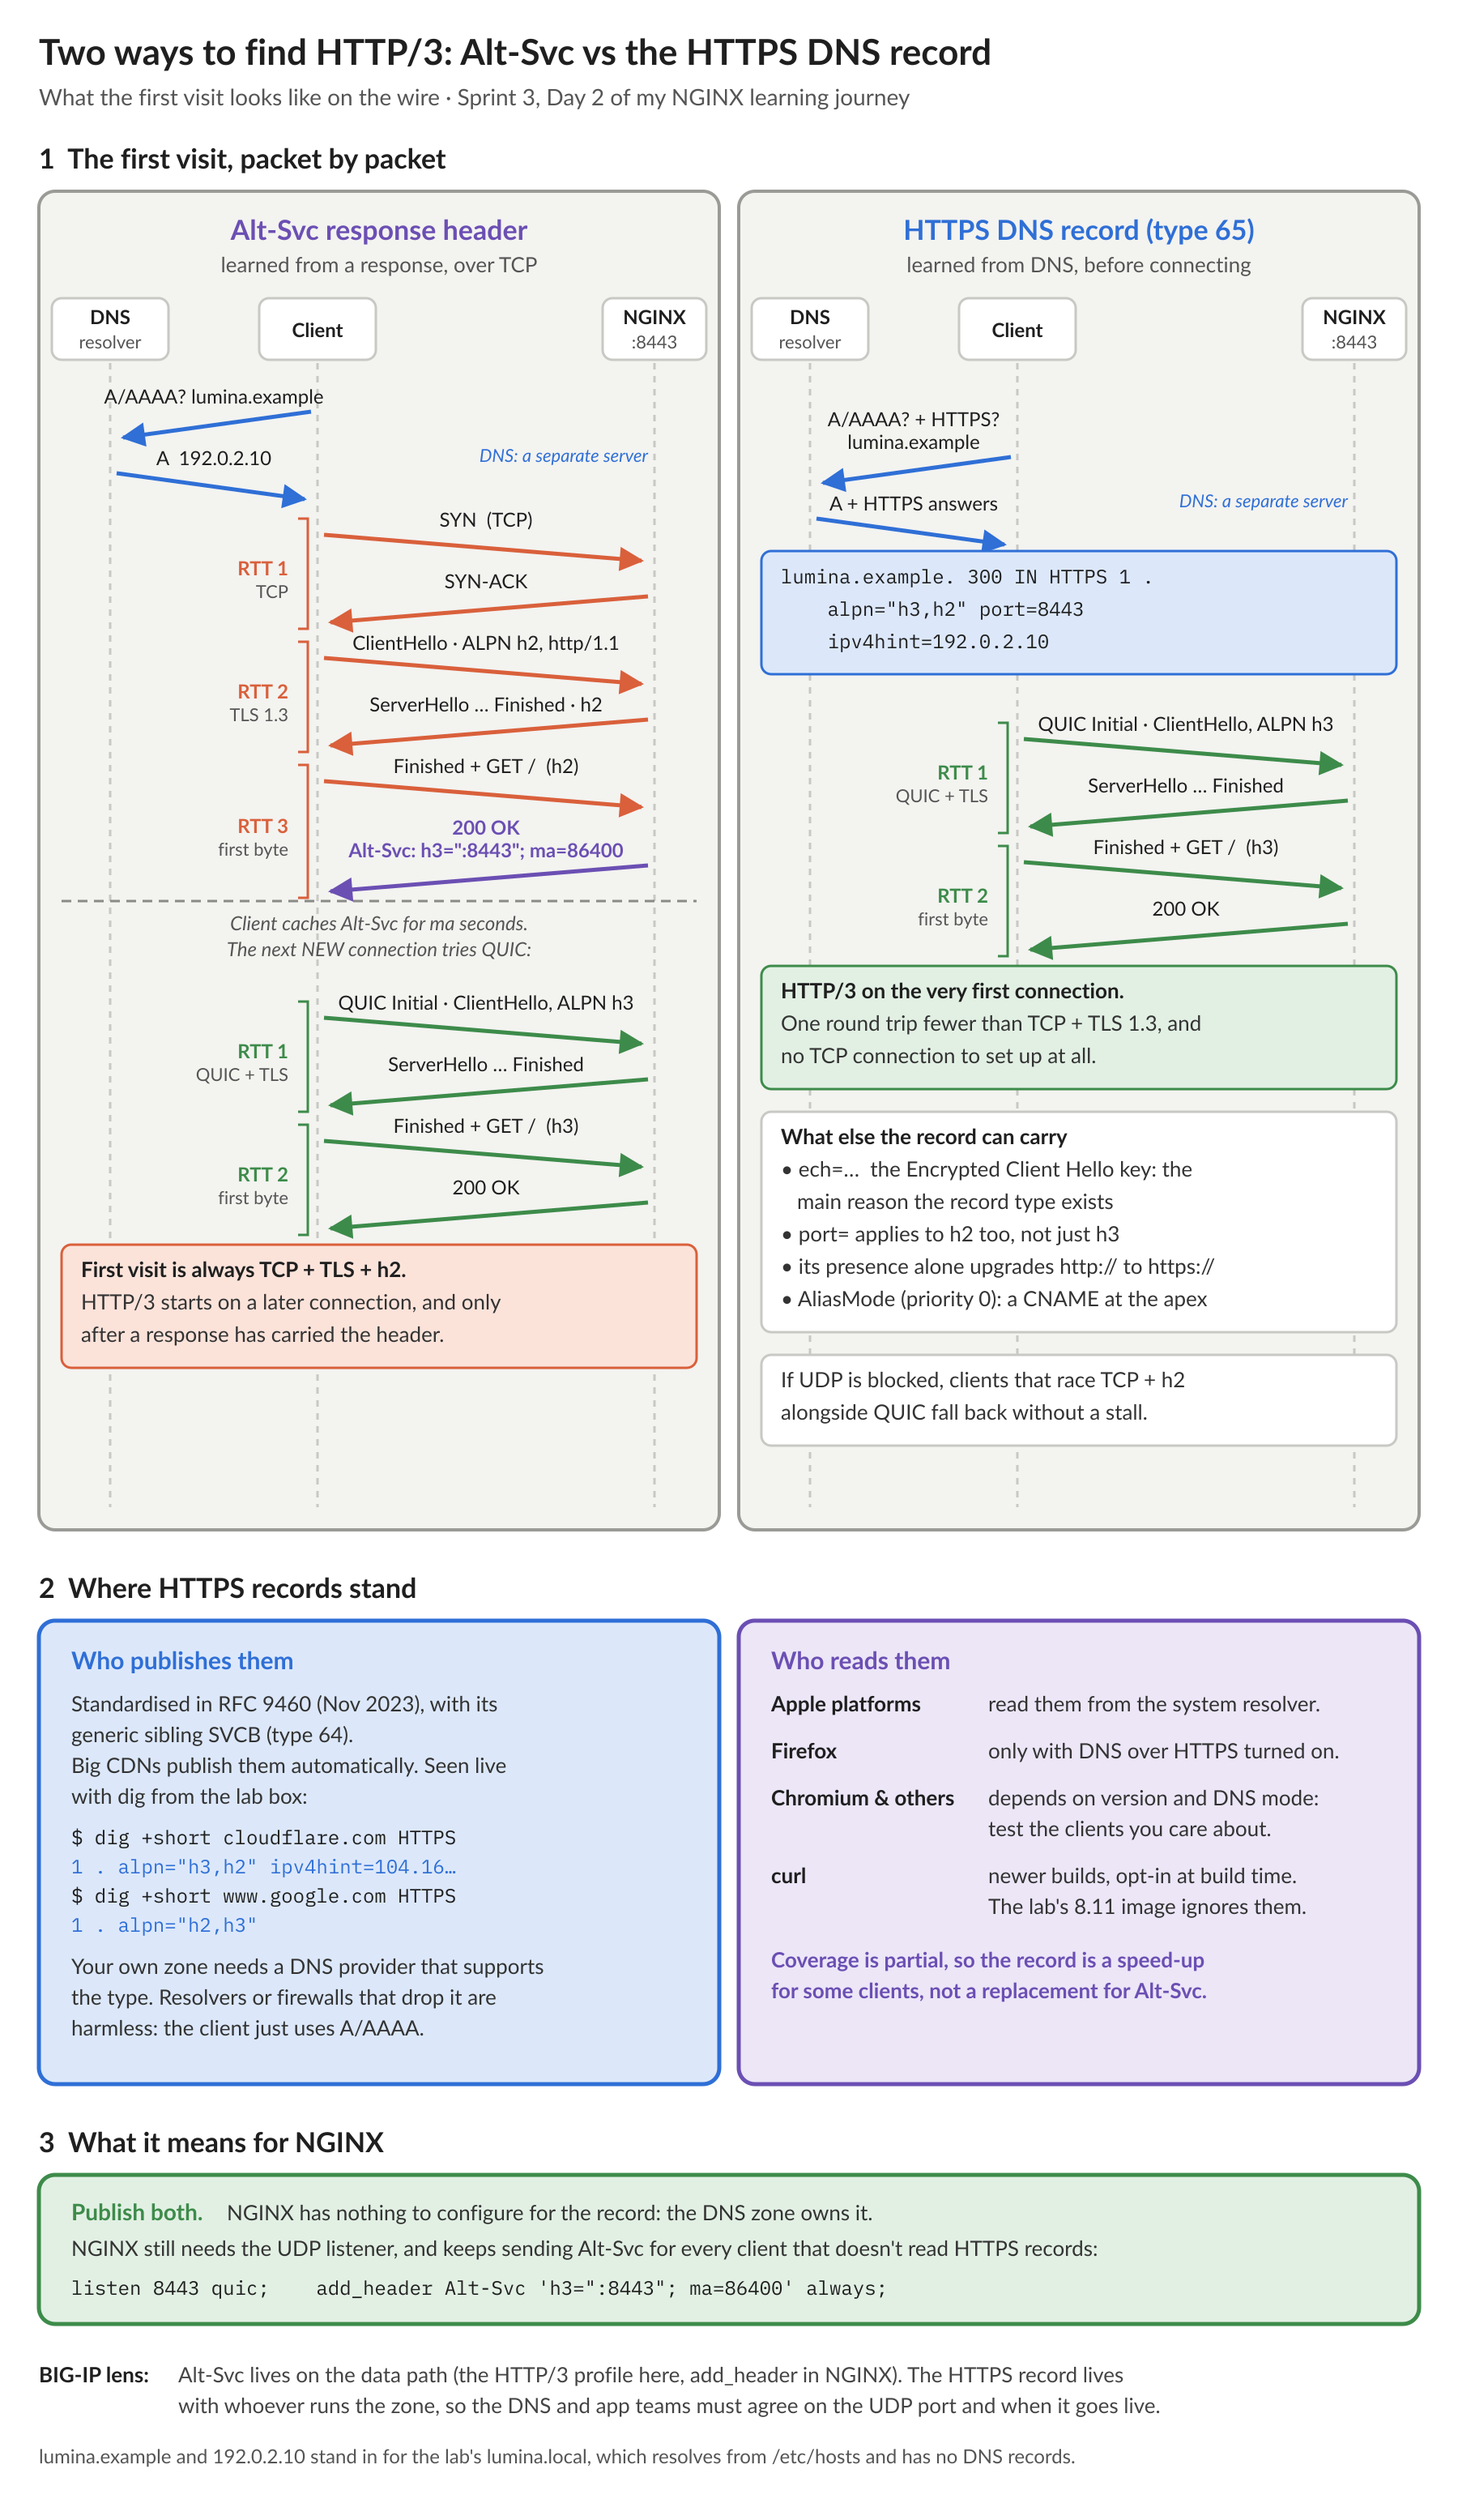
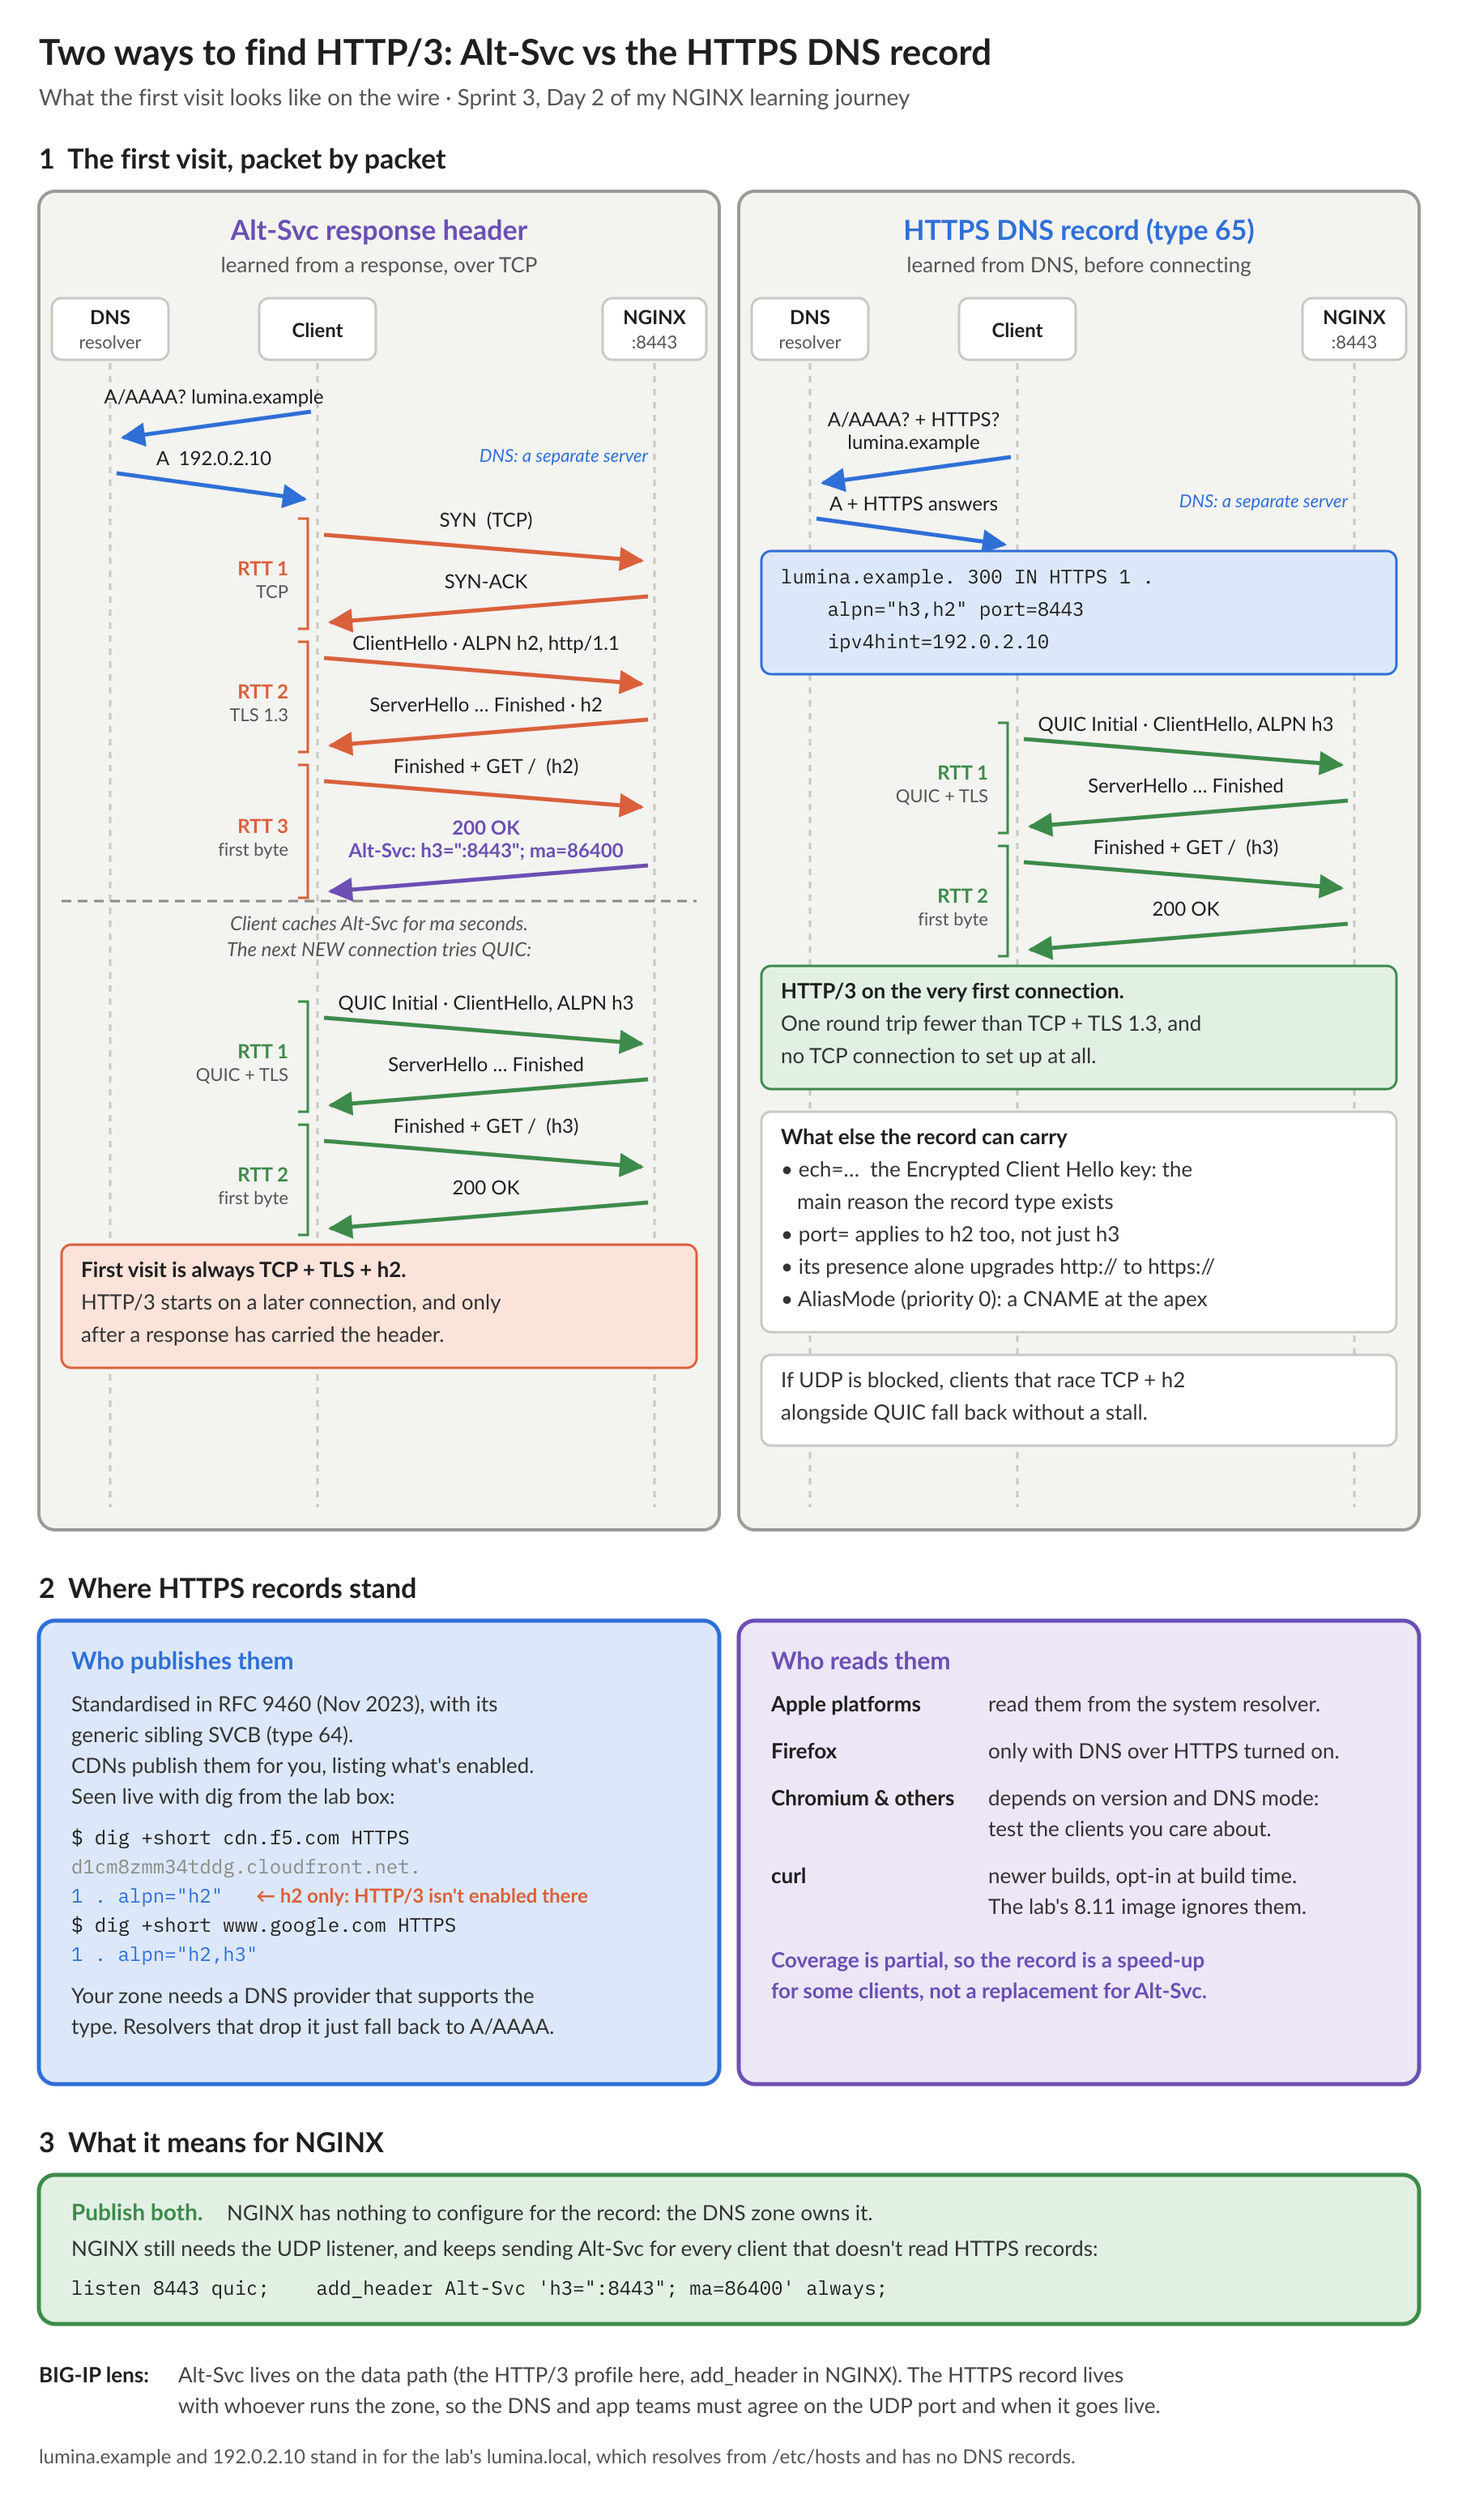
h3-discovery: use cdn.f5.com as the live HTTPS record example
cdn.f5.com (CNAME to CloudFront) publishes an HTTPS record with
alpn="h2" only, sends no Alt-Svc, and doesn't answer HTTP/3, while
HTTP/3 to cloudflare.com works from the same box. Replaces the
Cloudflare example in the "Who publishes them" panel and notes the
finding in recap_notes.md.

Changed region(s): [[0.0311, 0.6848, 0.3733, 0.8405]]

diff --git a/sprints/sprint-3/recap_notes.md b/sprints/sprint-3/recap_notes.md
@@ -93,7 +93,7 @@ Raw findings and clarifications collected during the sprint, to be shaped into t
   * **NGINX doesn't compress responses with the dynamic table.** The first response header block starts with `0x20`, a dynamic table size update to 0, which turns off its encoder table for the rest of the connection. After that come static-table and literal entries. The response header blocks were 120, 119 and 119 bytes, and the client's decoder table stayed empty. Responses still get the static table and Huffman coding, but repeats never get cheaper.
 * **Journal 3.3 (who gains most from HPACK):** the mobile client. Request headers go **up**, and a mobile uplink is the narrow, high-latency side. Dozens of requests per page each repeat a large cookie, so compressing them means more requests fit in TCP's first few round trips. Server-to-server calls run on fast links where bytes matter less. Often they don't use HPACK at all: NGINX's own upstream is HTTP/1.1 by default (§1.3). A fixed bearer token compresses fine, but per-request signatures (AWS SigV4-style, nonces) change every time and don't compress.
 * **Journal 3.2 (80 assets):** handshakes = connections, not assets ÷ connections. 80 ÷ 6 ≈ 13 is requests per connection. HTTP/1.1 makes up to 6 handshakes per host (12 for two hosts), and HTTP/2 makes 1 per host. With session resumption, most of the extra HTTP/1.1 handshakes are abbreviated. HTTP/2 **connection coalescing** lets the browser reuse one connection for a second hostname when the certificate covers both names and the name resolves to the same IP. Wildcard or SAN certificates then mean 1 handshake in total. A server that gets a coalesced request for a name it doesn't serve answers 421 Misdirected Request. (Coalescing is from RFC 9113 §9.1.1, not a lab test.)
-* **Q: How do HTTPS DNS records advertise HTTP/3, and how does that differ from `Alt-Svc`?** (RFC 9460, record type 65.) `Alt-Svc` comes in a response, so the first visit always uses TCP + TLS + h2, and QUIC is used only on later connections (for `ma` seconds). An HTTPS record is looked up alongside A/AAAA (`1 . alpn="h3,h2" port=8443 ipv4hint=...`), so the **first** connection can use QUIC. The record can also carry address hints, an ECH key (the main reason the record type exists), and AliasMode (priority 0, CNAME-like at the zone apex). Its presence makes clients upgrade `http://` to `https://`, the same way HSTS does. The DNS zone owner controls the record, not NGINX. Client support varies, and Firefox, for one, uses it only with DoH, so keep sending `Alt-Svc` too. Checked live: `dig +short cloudflare.com HTTPS` → `1 . alpn="h3,h2" ipv4hint=... ipv6hint=...`, and `www.google.com` → `1 . alpn="h2,h3"`.
+* **Q: How do HTTPS DNS records advertise HTTP/3, and how does that differ from `Alt-Svc`?** (RFC 9460, record type 65.) `Alt-Svc` comes in a response, so the first visit always uses TCP + TLS + h2, and QUIC is used only on later connections (for `ma` seconds). An HTTPS record is looked up alongside A/AAAA (`1 . alpn="h3,h2" port=8443 ipv4hint=...`), so the **first** connection can use QUIC. The record can also carry address hints, an ECH key (the main reason the record type exists), and AliasMode (priority 0, CNAME-like at the zone apex). Its presence makes clients upgrade `http://` to `https://`, the same way HSTS does. The DNS zone owner controls the record, not NGINX. Client support varies, and Firefox, for one, uses it only with DoH, so keep sending `Alt-Svc` too. Checked live: `www.google.com` → `1 . alpn="h2,h3"`. `cdn.f5.com` (a CNAME to CloudFront) → `1 . alpn="h2"`, with no `Alt-Svc`, and HTTP/3 to it timed out while HTTP/3 to cloudflare.com worked from the same box. Having the record doesn't mean having HTTP/3: a CDN publishes whatever is enabled for that distribution. (The infographic uses cdn.f5.com instead of cloudflare.com, which showed `alpn="h3,h2"`.)
 * **Quiz:** 9/10 on the first attempt. Day 2 recap written: `day02_recap.md`, with the `h3-discovery.png` infographic.
 
 ## Day 3
